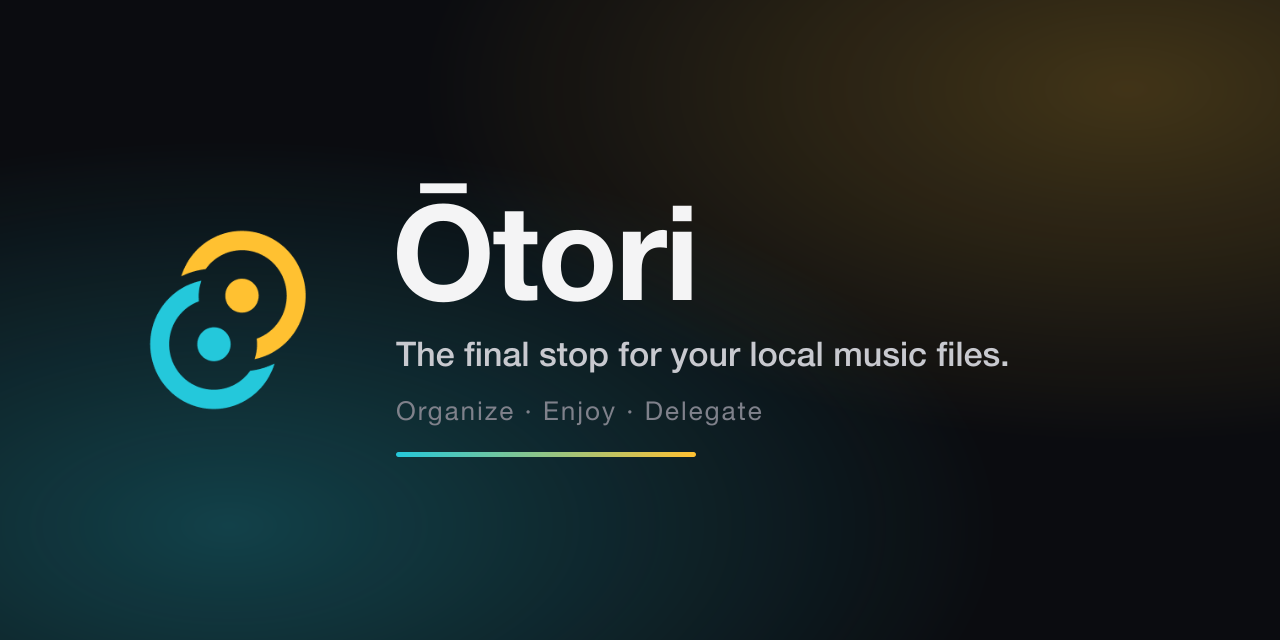
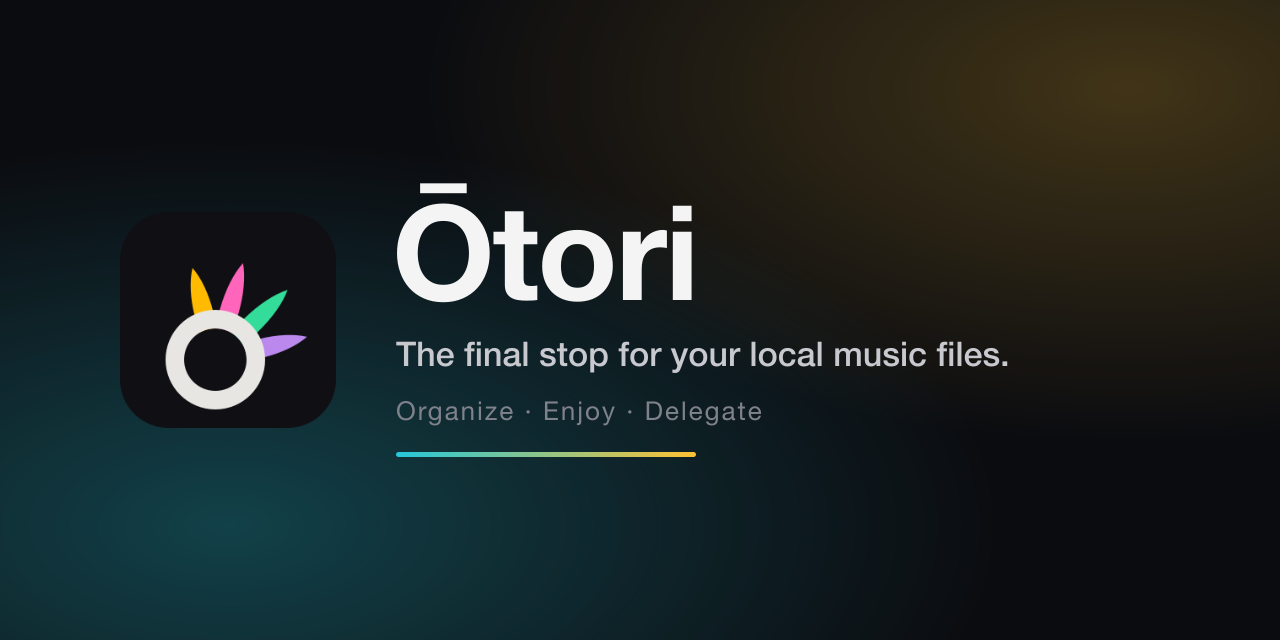
Feat: brand mark — phoenix perched on the Ō
Changes:
- Add docs/assets/logo.svg as the canonical brand mark (variant E3):
  a stage ring / record with four tail feathers sweeping up-right.
- Re-render logo.png (256px) and social-preview.png from the new mark,
  replacing the placeholder cyan+gold Tauri-derived logo.
- Add docs/design/logo.md documenting the mark, the four-color easter
  egg, the ADR-0001 legal boundary, and sizing verification.
- Add docs/design/logo-drafts/ with the full exploration (A–D concepts,
  E1–E3 fusions, F1–F3 cute pass) for provenance.

Rationale: The logo needed to stop being Tauri's colors. The four
feathers fly the Wonderlands×Showtime member palette (the unit the
product is named after per ADR-0001), while staying deniable: the app
already maps those same four accents to library/lyrics/playback/spectrum
in App.css. Colors aren't trademarkable; no member likeness or coined
mark is used, keeping clear of the IP owner's enforcement surface.

Changed region(s): [[0.0938, 0.3438, 0.2812, 0.6875]]

diff --git a/docs/design/logo.md b/docs/design/logo.md
@@ -1,0 +1,69 @@
+# Ōtori — Logo & brand mark
+
+> Design SSOT for the brand mark. The canonical source is
+> [`docs/assets/logo.svg`](../assets/logo.svg); `logo.png` is rendered from it.
+
+## The mark
+
+**"Phoenix perched on the Ō."** A light ring — the letter **O**, a stage
+ring, a spinning record — with four tail feathers sweeping up and to the
+right for motion. The ring's hole reads as an eye; the whole shape reads
+as a small phoenix taking off from a stage.
+
+The asymmetric sweep (variant E3 in the drafts) was chosen over the
+symmetric fan (E1) and the centered monogram (C): it reads as *logo, not
+icon* — it has a direction and a gesture, not just a silhouette.
+
+## The four colors (the easter egg)
+
+The four feathers are the member colors of **Wonderlands×Showtime**
+(WxS), the Project SEKAI unit the product is named after — ADR-0001 §1
+records that `Ōtori` comes from 鳳えむ (Otori Emu), 鳳 = phoenix, echoing
+Phoenix Wonderland.
+
+| Feather | Hex | WxS member | Public meaning (App.css accent) |
+|---|---|---|---|
+| Gold | `#FFBB00` | Tenma Tsukasa | library |
+| Pink | `#FF66BB` | Otori Emu | lyrics |
+| Green | `#33DD99` | Kusanagi Nene | playback |
+| Purple | `#BB88EE` | Kamishiro Rui | spectrum |
+
+The egg is **deniable by construction**: the app already maps four
+accent colors to its four functional areas (`--library` / `--lyrics` /
+`--playback` / `--spectrum` in `src/App.css`). The logo simply flies the
+same four colors. Fans of WxS recognize the member palette; everyone else
+sees the product's own accent system. Both readings are true.
+
+## Legal boundary
+
+Per ADR-0001 §1, the product deliberately avoids anything that points
+100% at the IP owner (SEGA / Colorful Palette, an aggressive trademark
+enforcer):
+
+- **Colors are safe.** A palette is not trademarkable; four hex values
+  carry a plausible in-app rationale.
+- **Avoided:** character-specific coined marks (the "Wonderhoy" catch
+  phrase — kept only as an internal theme name, never the product name),
+  the circus-tent / Wonder Stage silhouette, any member likeness.
+
+The mark is a phoenix and a record. Nothing in it is ownable by the IP
+holder.
+
+## Sizing
+
+Verified legible at 512 / 128 / 32 px (`docs/design/logo-drafts/`):
+at 32 px the ring + colored feathers still resolve. Because the mark
+carries no facial features, it survives menubar / favicon sizes — the
+cute face-and-blush variants (F1–F3) lose their expression below ~128 px
+and were dropped for that reason.
+
+If a large-format "mascot" treatment is ever wanted (welcome screen,
+About page), variant F3 (winking face + blush) is the sketched starting
+point.
+
+## Assets
+
+- `docs/assets/logo.svg` — canonical source
+- `docs/assets/logo.png` — 256 px, used by README and `social-preview.svg`
+- `docs/design/logo-drafts/` — the full exploration (A–D concepts,
+  E1–E3 fusions, F1–F3 cute pass, `otori-logo.svg` final)